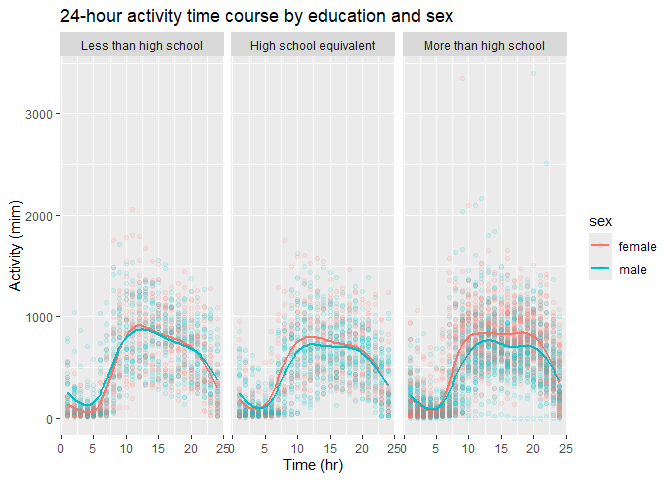
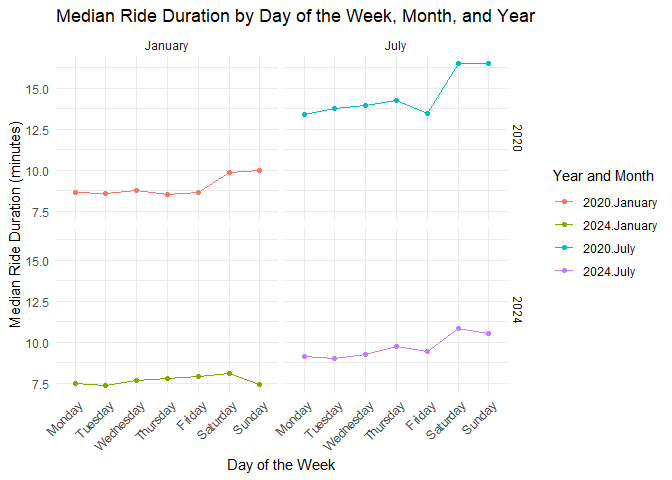
plotted Month, membership status, and bike type on the distribution of ride duration. Wrote observations. End of Q3.

diff --git a/p8105_hw3_pm3260.md b/p8105_hw3_pm3260.md
@@ -28,17 +28,7 @@ accel_df =
     values_to = "mim") |>
   mutate(min = str_remove(min, "min"), 
          min = as.numeric(min))
-```
 
-    ## Rows: 250 Columns: 1441
-    ## ── Column specification ────────────────────────────────────────────────────────
-    ## Delimiter: ","
-    ## dbl (1441): SEQN, min1, min2, min3, min4, min5, min6, min7, min8, min9, min1...
-    ## 
-    ## ℹ Use `spec()` to retrieve the full column specification for this data.
-    ## ℹ Specify the column types or set `show_col_types = FALSE` to quiet this message.
-
-``` r
 covar_df = 
   read_csv("./data/nhanes_covar.csv", skip=4) |>
   janitor::clean_names() |>
@@ -55,17 +45,7 @@ covar_df =
       2 ~ "High school equivalent",
       3 ~ "More than high school"
     ))
-```
 
-    ## Rows: 250 Columns: 5
-    ## ── Column specification ────────────────────────────────────────────────────────
-    ## Delimiter: ","
-    ## dbl (5): SEQN, sex, age, BMI, education
-    ## 
-    ## ℹ Use `spec()` to retrieve the full column specification for this data.
-    ## ℹ Specify the column types or set `show_col_types = FALSE` to quiet this message.
-
-``` r
 activity_df = 
   left_join(
     covar_df, accel_df, by = c("seqn"))
@@ -126,7 +106,7 @@ ggplot(
   theme_minimal()
 ```
 
-![](p8105_hw3_pm3260_files/figure-gfm/unnamed-chunk-4-1.png)<!-- -->
+![](p8105_hw3_pm3260_files/figure-gfm/unnamed-chunk-3-1.png)<!-- -->
 
 Women: Median age for those with less than hs or hs equivalent education
 seems to be similar, while those with more than hs education seems to be
@@ -164,9 +144,7 @@ activity_total = activity_df |>
   )
 ```
 
-    ## `geom_smooth()` using method = 'loess' and formula = 'y ~ x'
-
-![](p8105_hw3_pm3260_files/figure-gfm/unnamed-chunk-5-1.png)<!-- -->
+![](p8105_hw3_pm3260_files/figure-gfm/activity-1.png)<!-- -->
 
 In all the three plots, as age increases, the total activity time (mim)
 decreases. However, it looks like for those with less than hs education,
@@ -197,9 +175,7 @@ ggplot(activity_hr, aes(x = hour, y = hr_mim, color = sex)) +
   )
 ```
 
-    ## `geom_smooth()` using method = 'gam' and formula = 'y ~ s(x, bs = "cs")'
-
-![](p8105_hw3_pm3260_files/figure-gfm/unnamed-chunk-6-1.png)<!-- -->
+![](p8105_hw3_pm3260_files/figure-gfm/acthr-1.png)<!-- -->
 
 Looking at the graph we can see a clear ‘cyclical’ patter in all the
 different education levels; the activity level is very low/decreasing
@@ -222,72 +198,28 @@ jan20_df =
   drop_na() |>
   mutate( month = "January",
           year = "2020")
-```
 
-    ## Rows: 12420 Columns: 7
-    ## ── Column specification ────────────────────────────────────────────────────────
-    ## Delimiter: ","
-    ## chr (6): ride_id, rideable_type, weekdays, start_station_name, end_station_n...
-    ## dbl (1): duration
-    ## 
-    ## ℹ Use `spec()` to retrieve the full column specification for this data.
-    ## ℹ Specify the column types or set `show_col_types = FALSE` to quiet this message.
-
-``` r
 jan24_df = 
   read_csv("./data/Jan 2024 Citi.csv") |>
   janitor::clean_names() |>
   drop_na() |>
   mutate( month = "January",
           year = "2024")
-```
 
-    ## Rows: 18861 Columns: 7
-    ## ── Column specification ────────────────────────────────────────────────────────
-    ## Delimiter: ","
-    ## chr (6): ride_id, rideable_type, weekdays, start_station_name, end_station_n...
-    ## dbl (1): duration
-    ## 
-    ## ℹ Use `spec()` to retrieve the full column specification for this data.
-    ## ℹ Specify the column types or set `show_col_types = FALSE` to quiet this message.
-
-``` r
 jul20_df = 
   read_csv("./data/July 2020 Citi.csv") |>
   janitor::clean_names() |>
   drop_na() |>
   mutate( month = "July",
           year = "2020")
-```
 
-    ## Rows: 21048 Columns: 7
-    ## ── Column specification ────────────────────────────────────────────────────────
-    ## Delimiter: ","
-    ## chr (6): ride_id, rideable_type, weekdays, start_station_name, end_station_n...
-    ## dbl (1): duration
-    ## 
-    ## ℹ Use `spec()` to retrieve the full column specification for this data.
-    ## ℹ Specify the column types or set `show_col_types = FALSE` to quiet this message.
-
-``` r
 jul24_df = 
   read_csv("./data/July 2024 Citi.csv") |>
   janitor::clean_names() |>
   drop_na() |>
   mutate( month = "July",
           year = "2024")
-```
 
-    ## Rows: 47156 Columns: 7
-    ## ── Column specification ────────────────────────────────────────────────────────
-    ## Delimiter: ","
-    ## chr (6): ride_id, rideable_type, weekdays, start_station_name, end_station_n...
-    ## dbl (1): duration
-    ## 
-    ## ℹ Use `spec()` to retrieve the full column specification for this data.
-    ## ℹ Specify the column types or set `show_col_types = FALSE` to quiet this message.
-
-``` r
 citi_df = 
   bind_rows(jan20_df, jan24_df, jul20_df, jul24_df)
 ```
@@ -334,7 +266,7 @@ decrease between jul 2020 and jan 2024. Additionally, the member riders
 from jan2024 to july 2024 increased by almost 20k. I’m wondering if
 there are less casual riders around Jan 2020 due to COVID.
 
-#### Table with 5 most populat starting stations on July 2024
+#### Table with 5 most popular starting stations on July 2024
 
 ``` r
 top_stations = citi_df |>
@@ -380,12 +312,12 @@ ggplot(citi_grid, aes(x = weekdays, y = median_duration, group = interaction(yea
     title = "Median Ride Duration by Day of the Week, Month, and Year",
     x = "Day of the Week",
     y = "Median Ride Duration (minutes)",
-    color = "Year and Month"
-  ) +
-    theme(axis.text.x = element_text(angle = 45, hjust = 1))
+    color = "Year and Month") +
+  theme_minimal() +
+  theme(axis.text.x = element_text(angle = 45, hjust = 1))
 ```
 
-![](p8105_hw3_pm3260_files/figure-gfm/unnamed-chunk-9-1.png)<!-- -->
+![](p8105_hw3_pm3260_files/figure-gfm/unnamed-chunk-6-1.png)<!-- -->
 
 In both January and July, weekends tend to show slightly higher median
 ride durations compared to weekdays, which may indicate that riders use
@@ -396,3 +328,41 @@ However, in 2024, the median ride duration is lower across the board
 compared to 2020.
 
 #### Plot 2: Month, membership status, and bike type on the distribution of ride duration
+
+``` r
+citi_plot = citi_df |>
+  filter(year == 2024) |>
+  select(month, member_casual, rideable_type, duration, ride_id) 
+ 
+ggplot(citi_plot, 
+       aes(x = duration, 
+           y = member_casual, 
+           fill = member_casual)) +
+  geom_density_ridges(alpha = 0.5, scale = 1) +
+  facet_grid(rideable_type ~ month) +
+  viridis::scale_fill_viridis(discrete = TRUE) +
+  labs(
+    title = "Impact of Month, Membership Status, and Bike Type on Ride Duration",
+    x = "Ride Duration (minutes)",
+    y = "Membership Status",
+    fill = "Membership Status"
+  )
+```
+
+    ## Picking joint bandwidth of 2.17
+
+    ## Picking joint bandwidth of 1.58
+
+    ## Picking joint bandwidth of 1.21
+
+    ## Picking joint bandwidth of 1.26
+
+![](p8105_hw3_pm3260_files/figure-gfm/unnamed-chunk-7-1.png)<!-- -->
+
+Member riders seem to all have similar distribution despite the type of
+bike or month, with short 10-20 min rides being the most common. Casual
+riders show a wider range of ride times.Ride durations seem to be longer
+in July than in January with a lightly wider distribution. For casual
+riders, when using electric bikes, their duration seems more
+concentrated to a shorter ride while classic bike tends to be more
+varied.
